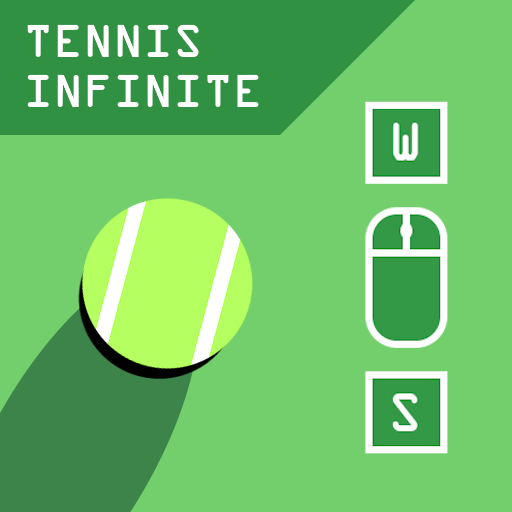
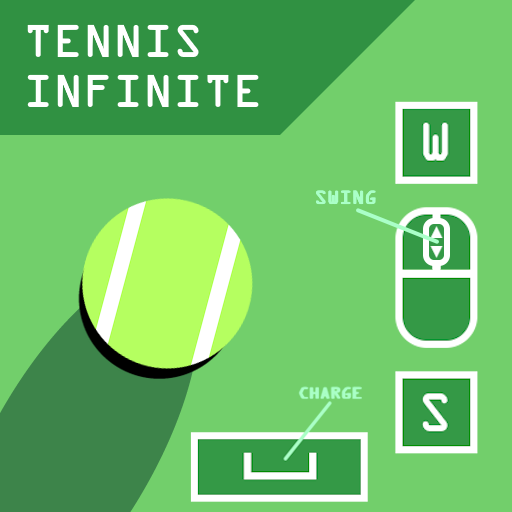
Dev 9 charge, cover, and juice

Changed region(s): [[0.5938, 0.1875, 0.9375, 0.6875], [0.375, 0.7188, 0.9375, 1.0]]

diff --git a/resources/Dev9/src/handler.js b/resources/Dev9/src/handler.js
@@ -13,17 +13,87 @@ TENNIS_GAME.playerPosition = null;   // [x, y] pos
 TENNIS_GAME.playerMoveFlags = null;
 TENNIS_GAME.playerVelocity = 0;
 TENNIS_GAME.racketAngle = 0;     // angle in radians
+TENNIS_GAME.racketColor = null;
 TENNIS_GAME.racketVelocity = 0;
 TENNIS_GAME.racketCells = null;
+TENNIS_GAME.racketChargeAlpha = 0;
+TENNIS_GAME.racketChargeTimer = null;
+TENNIS_GAME.racketChargeTimeActive = 0;
+TENNIS_GAME.racketChargeAlphaActive = 0;
 
 TENNIS_GAME.balls = [];
 TENNIS_GAME.ballSpawnTimer = 0;
+
+TENNIS_GAME.swingInputCooldown = 0;
+
+TENNIS_GAME.statusFlashColor = null;
+TENNIS_GAME.statusFlashTime = 0;
+
 // TENNIS_GAME.pointDisplays = [];
+
+// Toggles racket charge
+TENNIS_GAME.HANDLER.toggleRacketCharge = function(isCharging) {
+    if (isCharging && TENNIS_GAME.racketChargeTimer == null) {
+        const chargeTimer = TENNIS_GAME.CONSTANTS.RACKET_CHARGE_TIME;
+        var chargeCount = 0;
+        // var playedChargeSound = false;
+        var flashTimer = 0;
+        TENNIS_GAME.racketChargeTimer = TENNIS_GAME.UTIL.onStep(() => {
+            if (TENNIS_GAME.racketChargeAlpha == 1) {
+                // if (!playedChargeSound) {
+                //     playedChargeSound = true;
+                //     PS.audioPlay("fx_squink");
+                // }
+                var flashAlpha = 0;
+                if (flashTimer <= TENNIS_GAME.CONSTANTS.RACKET_CHARGE_FLASH_IN_TIME) {
+                    flashAlpha = flashTimer / TENNIS_GAME.CONSTANTS.RACKET_CHARGE_FLASH_IN_TIME;
+                }
+                else if (flashTimer <= TENNIS_GAME.CONSTANTS.RACKET_CHARGE_FLASH_IN_TIME +
+                    TENNIS_GAME.CONSTANTS.RACKET_CHARGE_FLASH_OUT_TIME
+                ) {
+                    flashAlpha = 1 - (
+                        (flashTimer - TENNIS_GAME.CONSTANTS.RACKET_CHARGE_FLASH_IN_TIME) /
+                        TENNIS_GAME.CONSTANTS.RACKET_CHARGE_FLASH_OUT_TIME
+                    );
+                }
+                else {
+                    return;
+                }
+                flashTimer++;
+                TENNIS_GAME.racketColor = TENNIS_GAME.UTIL.lerpColor(
+                    TENNIS_GAME.CONSTANTS.RACKET_CHARGE_COLOR, TENNIS_GAME.CONSTANTS.RACKET_CHARGE_FLASH_COLOR,
+                    flashAlpha
+                );
+                return;
+            }
+            chargeCount++;
+            TENNIS_GAME.racketChargeAlpha = chargeCount / chargeTimer;
+            TENNIS_GAME.racketColor = TENNIS_GAME.UTIL.lerpColor(
+                TENNIS_GAME.CONSTANTS.RACKET_COLOR, TENNIS_GAME.CONSTANTS.RACKET_CHARGE_COLOR,
+                TENNIS_GAME.racketChargeAlpha
+            )
+        });
+    }
+    else if (!isCharging) {
+        if (TENNIS_GAME.racketChargeTimer != null) {
+            PS.timerStop(TENNIS_GAME.racketChargeTimer);
+            TENNIS_GAME.racketChargeTimer = null;
+        }
+        TENNIS_GAME.racketColor = TENNIS_GAME.CONSTANTS.RACKET_COLOR;
+        if (TENNIS_GAME.racketChargeAlpha > TENNIS_GAME.racketChargeAlphaActive) {
+            TENNIS_GAME.racketChargeAlphaActive = TENNIS_GAME.racketChargeAlpha;
+        }
+        TENNIS_GAME.racketChargeAlpha = 0;
+        TENNIS_GAME.racketChargeTimeActive = TENNIS_GAME.CONSTANTS.RACKET_CHARGE_ACTIVE_TIME;
+    }
+}
 
 
 // Pulls the racket in the direction (> 0 pulls down, < 0 pulls up) 
 TENNIS_GAME.HANDLER.pullRacket = function(direction) {
-    TENNIS_GAME.racketVelocity += direction * TENNIS_GAME.CONSTANTS.RACKET_VELOCITY;
+    if (TENNIS_GAME.swingInputCooldown == 0) {
+        TENNIS_GAME.racketVelocity += direction * TENNIS_GAME.CONSTANTS.RACKET_VELOCITY;
+    }
 }
 
 // Sets a flag for whether movement in the specified direction should be on
@@ -54,7 +124,9 @@ TENNIS_GAME.HANDLER.calculateBallPoints = function(ball, edgePivot) {
         TENNIS_GAME.CONSTANTS.POINTS_OUT_X_MAX,
         1 - (edgeX / TENNIS_GAME.CONSTANTS.GRID_WIDTH)
     );
-    const points = TENNIS_GAME.UTIL.floorToMultiple(speedPoints + outXPoints, TENNIS_GAME.CONSTANTS.POINTS_MULTIPLE);
+    const points = TENNIS_GAME.UTIL.floorToMultiple(
+        (speedPoints + outXPoints) * (ball.multiplier ?? 1), TENNIS_GAME.CONSTANTS.POINTS_MULTIPLE
+    );
     return [points, 0];
 }
 
@@ -64,12 +136,22 @@ TENNIS_GAME.HANDLER.handleBallHit = function(ball) {
     if (ball.hitTimer == null) {
         ball.hitStartColor =
             isSlow ? TENNIS_GAME.CONSTANTS.BALL_SLOW_START_COLOR : ball.color;
+        const charging = TENNIS_GAME.racketChargeTimeActive > 0;
+        var hitColor = TENNIS_GAME.CONSTANTS.BALL_FAST_HIT_COLOR;
+        if (charging) {
+            // Change color if charging
+            hitColor = TENNIS_GAME.UTIL.lerpColor(
+                hitColor, TENNIS_GAME.CONSTANTS.BALL_FAST_HIT_CHARGE_COLOR,
+                TENNIS_GAME.racketChargeAlphaActive
+            )
+        }
         ball.hitEndColor =
             isSlow ? TENNIS_GAME.CONSTANTS.BALL_SLOW_END_COLOR : TENNIS_GAME.UTIL.lerpColor(
-                ball.color, TENNIS_GAME.CONSTANTS.BALL_FAST_HIT_LERP_COLOR,
-                TENNIS_GAME.CONSTANTS.BALL_FAST_HIT_LERP_ALPHA
+                ball.color, hitColor, TENNIS_GAME.CONSTANTS.BALL_FAST_HIT_LERP_ALPHA
             );
         ball.hitTimer = 0;
+        ball.multiplier =
+            charging ? (1 + (TENNIS_GAME.racketChargeAlphaActive * TENNIS_GAME.CONSTANTS.BALL_CHARGE_ALPHA_MULTIPLIER)) : 1;
     }
     const alpha = ball.hitTimer / TENNIS_GAME.CONSTANTS.BALL_FADE_STEPS;
     if (alpha <= 1) {
@@ -97,10 +179,11 @@ TENNIS_GAME.HANDLER.handleBallOutOfBounds = function(ball, edgePivot) {
         // Give points
         const [points, pointAlpha] = TENNIS_GAME.HANDLER.calculateBallPoints(ball, edgePivot);
         TENNIS_GAME.points += points
-        // TENNIS_GAME.pointDisplays.push({
-        //     points: points,
-        //     pointAlpha: pointAlpha,
-        // });
+        TENNIS_GAME.statusFlashTime = 0;
+        TENNIS_GAME.statusFlashColor =
+            ball.multiplier == (1 + TENNIS_GAME.CONSTANTS.BALL_CHARGE_ALPHA_MULTIPLIER) ?
+            TENNIS_GAME.CONSTANTS.LEVEL_STATUS_POINT_FLASH_GOLD_COLOR :
+            TENNIS_GAME.CONSTANTS.LEVEL_STATUS_POINT_FLASH_COLOR;
 
         // End tutorial if active
         if (TENNIS_GAME.tutorial) {
@@ -178,15 +261,18 @@ TENNIS_GAME.HANDLER.getCurrentDifficulty = function() {
         speed = 0.75;
     }
     else if (TENNIS_GAME.points > 75000) {
-        speed = 0.6;
+        speed = 0.7;
     }
     else if (TENNIS_GAME.points > 50000) {
-        speed = 0.5;
+        speed = 0.6;
     }
     else if (TENNIS_GAME.points > 25000) {
-        speed = 0.4;
+        speed = 0.5;
     }
     else if (TENNIS_GAME.points > 10000) {
+        speed = 0.4;
+    }
+    else if (TENNIS_GAME.points > 2000) {
         speed = 0.3;
     }
     else {
@@ -310,9 +396,14 @@ TENNIS_GAME.HANDLER.handleRacketBallHits = function(racketSpeed, angleStart, ang
                 const direction = TENNIS_GAME.UTIL.normalizePivot(
                     TENNIS_GAME.UTIL.rotatePivot(offset, offsetAngle)
                 );
-                ball.speed += racketSpeed * TENNIS_GAME.CONSTANTS.BALL_FAST_DEFLECT_SPEED_FACTOR;
+                ball.speed += racketSpeed * TENNIS_GAME.CONSTANTS.BALL_FAST_DEFLECT_SPEED_FACTOR * (ball.multiplier ?? 1);
                 ball.direction = direction;
-                PS.audioPlay("fx_blast2");
+                if (TENNIS_GAME.racketChargeAlphaActive == 1) {
+                    PS.audioPlay("fx_bang", {volume: 1 + TENNIS_GAME.racketChargeAlphaActive});
+                }
+                else {
+                    PS.audioPlay("fx_blast2");
+                }
             }
             else {
                 // Stop ball if slow
@@ -325,6 +416,16 @@ TENNIS_GAME.HANDLER.handleRacketBallHits = function(racketSpeed, angleStart, ang
 
 // Updates racket position based on current velocity + angle
 TENNIS_GAME.HANDLER.updateRacketPosition = function() {
+    if (TENNIS_GAME.swingInputCooldown > 0) {
+        TENNIS_GAME.swingInputCooldown--;
+    }
+    if (TENNIS_GAME.racketChargeTimeActive > 0) {
+        TENNIS_GAME.racketChargeTimeActive--;
+    }
+    else {
+        TENNIS_GAME.racketChargeAlphaActive = 0;
+    }
+
     // Apply racket velocity to angle
     TENNIS_GAME.racketVelocity = TENNIS_GAME.UTIL.toward(
         TENNIS_GAME.racketVelocity, 0, TENNIS_GAME.CONSTANTS.RACKET_DECELERATION
@@ -341,6 +442,7 @@ TENNIS_GAME.HANDLER.updateRacketPosition = function() {
     );
     if (clampedAngle != newAngle) {
         TENNIS_GAME.racketVelocity = 0;
+        TENNIS_GAME.swingInputCooldown = TENNIS_GAME.CONSTANTS.SWING_TIME_COOLDOWN;
     }
 
     // Update active angle
@@ -370,7 +472,7 @@ TENNIS_GAME.HANDLER.drawBalls = function() {
 TENNIS_GAME.HANDLER.drawPlayer = function() {
     TENNIS_GAME.UTIL.drawSprite(TENNIS_GAME.playerPosition, TENNIS_GAME.CONSTANTS.PLAYER_SPRITE);
     TENNIS_GAME.racketCells.forEach(cell => {
-        TENNIS_GAME.UTIL.fillPivot(cell, TENNIS_GAME.CONSTANTS.RACKET_COLOR);
+        TENNIS_GAME.UTIL.fillPivot(cell, TENNIS_GAME.racketColor);
     })
 }
 
@@ -404,7 +506,31 @@ TENNIS_GAME.HANDLER.drawUI = function() {
         else {
             // Display points
             PS.statusText(`Points: ${TENNIS_GAME.points}`);
-            PS.statusColor(TENNIS_GAME.CONSTANTS.LEVEL_STATUS_COLOR);
+            var statusColor = TENNIS_GAME.CONSTANTS.LEVEL_STATUS_COLOR;
+            if (TENNIS_GAME.statusFlashColor != null) {
+                var flashAlpha = 0;
+                if (TENNIS_GAME.statusFlashTime <= TENNIS_GAME.CONSTANTS.LEVEL_STATUS_FLASH_IN_TIME) {
+                    flashAlpha = TENNIS_GAME.statusFlashTime / TENNIS_GAME.CONSTANTS.LEVEL_STATUS_FLASH_IN_TIME;
+                }
+                else if (TENNIS_GAME.statusFlashTime <= TENNIS_GAME.CONSTANTS.LEVEL_STATUS_FLASH_IN_TIME +
+                    TENNIS_GAME.CONSTANTS.LEVEL_STATUS_FLASH_OUT_TIME
+                ) {
+                    flashAlpha = 1 - (
+                        (TENNIS_GAME.statusFlashTime - TENNIS_GAME.CONSTANTS.LEVEL_STATUS_FLASH_IN_TIME) /
+                        TENNIS_GAME.CONSTANTS.LEVEL_STATUS_FLASH_OUT_TIME
+                    );
+                }
+                else {
+                    TENNIS_GAME.statusFlashColor = null;
+                }
+                TENNIS_GAME.statusFlashTime++;
+                if (flashAlpha > 0) {
+                    statusColor = TENNIS_GAME.UTIL.lerpColor(
+                        statusColor, TENNIS_GAME.statusFlashColor, flashAlpha
+                    );
+                }
+            }
+            PS.statusColor(statusColor);
         }
     }
 
@@ -452,6 +578,8 @@ TENNIS_GAME.HANDLER.update = function() {
 TENNIS_GAME.HANDLER.start = function() {
     
     // Load and lock audio
+	PS.audioLoad("fx_bang", {lock: true});
+	// PS.audioLoad("fx_squink", {lock: true});
 	PS.audioLoad("fx_blast2", {lock: true});
 	PS.audioLoad("fx_bucket", {lock: true});
 	PS.audioLoad("fx_scratch", {lock: true});
@@ -469,6 +597,7 @@ TENNIS_GAME.HANDLER.start = function() {
     TENNIS_GAME.points = 0;
     TENNIS_GAME.tutorial = true;
     TENNIS_GAME.racketAngle = TENNIS_GAME.CONSTANTS.RACKET_ANGLE_INIT;
+    TENNIS_GAME.racketColor = TENNIS_GAME.CONSTANTS.RACKET_COLOR;
     TENNIS_GAME.playerMoveFlags = new Set();
     TENNIS_GAME.playerPosition = [TENNIS_GAME.CONSTANTS.PLAYER_SPAWN_X, TENNIS_GAME.CONSTANTS.PLAYER_SPAWN_Y];
     

diff --git a/resources/Dev9/src/constants.js b/resources/Dev9/src/constants.js
@@ -41,6 +41,12 @@ TENNIS_GAME.CONSTANTS.RACKET_ANGLE_MAX = Math.PI;// + (Math.PI * 0.125);
 TENNIS_GAME.CONSTANTS.RACKET_ANGLE_SAVE_STEPS = 50;
 TENNIS_GAME.CONSTANTS.RACKET_DECELERATION = 0.2;
 TENNIS_GAME.CONSTANTS.RACKET_MIN_HIT_SPEED = 0.4;
+TENNIS_GAME.CONSTANTS.RACKET_CHARGE_TIME = 60;
+TENNIS_GAME.CONSTANTS.RACKET_CHARGE_COLOR = 0x918e30;
+TENNIS_GAME.CONSTANTS.RACKET_CHARGE_FLASH_COLOR = 0xc4c151;
+TENNIS_GAME.CONSTANTS.RACKET_CHARGE_FLASH_IN_TIME = 15;
+TENNIS_GAME.CONSTANTS.RACKET_CHARGE_FLASH_OUT_TIME = 10;
+TENNIS_GAME.CONSTANTS.RACKET_CHARGE_ACTIVE_TIME = 10;
 
 // Player mark constants
 TENNIS_GAME.CONSTANTS.MARK_COLOR = 0x355287;
@@ -57,8 +63,10 @@ TENNIS_GAME.CONSTANTS.BALL_FAST_DEFLECT_SPEED_FACTOR = 1;
 TENNIS_GAME.CONSTANTS.BALL_FADE_STEPS = 10;
 TENNIS_GAME.CONSTANTS.BALL_SLOW_START_COLOR = 0xff0000;
 TENNIS_GAME.CONSTANTS.BALL_SLOW_END_COLOR = 0xa80707;
-TENNIS_GAME.CONSTANTS.BALL_FAST_HIT_LERP_COLOR = 0xff0000;
+TENNIS_GAME.CONSTANTS.BALL_FAST_HIT_COLOR = 0x00ffff;
 TENNIS_GAME.CONSTANTS.BALL_FAST_HIT_LERP_ALPHA = 1;
+TENNIS_GAME.CONSTANTS.BALL_FAST_HIT_CHARGE_COLOR = 0xffff00;
+TENNIS_GAME.CONSTANTS.BALL_CHARGE_ALPHA_MULTIPLIER = 2;
 TENNIS_GAME.CONSTANTS.BALL_SPAWN_MIN_Y = 4;
 TENNIS_GAME.CONSTANTS.BALL_SPAWN_MAX_Y = TENNIS_GAME.CONSTANTS.GRID_HEIGHT - 5;
 TENNIS_GAME.CONSTANTS.BALL_TYPE_REGULAR = {
@@ -112,8 +120,12 @@ TENNIS_GAME.CONSTANTS.LEVEL_BACKGROUND = [
     TENNIS_GAME.CONSTANTS.COURT_COLOR,
 ]
 TENNIS_GAME.CONSTANTS.LEVEL_STATUS_COLOR = 0xffffff;
+TENNIS_GAME.CONSTANTS.LEVEL_STATUS_POINT_FLASH_COLOR = 0x00ff00;
+TENNIS_GAME.CONSTANTS.LEVEL_STATUS_POINT_FLASH_GOLD_COLOR = 0xffff00;
+TENNIS_GAME.CONSTANTS.LEVEL_STATUS_FLASH_IN_TIME = 3;
+TENNIS_GAME.CONSTANTS.LEVEL_STATUS_FLASH_OUT_TIME = 20;
 TENNIS_GAME.CONSTANTS.LEVEL_GAME_OVER_COLOR = 0xffffff;
-TENNIS_GAME.CONSTANTS.LEVEL_TUTORIAL_STATUS = "READY?";
+TENNIS_GAME.CONSTANTS.LEVEL_TUTORIAL_STATUS = "READY? SWING!";
 TENNIS_GAME.CONSTANTS.LEVEL_TUTORIAL_STATUS_COLOR = 0xffff00;
 TENNIS_GAME.CONSTANTS.LEVEL_TUTORIAL_READY = "START!";
 TENNIS_GAME.CONSTANTS.LEVEL_TUTORIAL_READY_COLOR = 0x00ff00;
@@ -121,7 +133,7 @@ TENNIS_GAME.CONSTANTS.LEVEL_TUTORIAL_READY_TIMER = 60;
 TENNIS_GAME.CONSTANTS.LEVEL_GROUND_Y = TENNIS_GAME.CONSTANTS.GRID_WIDTH - TENNIS_GAME.CONSTANTS.FROG_HEIGHT - 1;
 
 // Input constants
-TENNIS_GAME.CONSTANTS.MIN_TIME_GAP = 10
+TENNIS_GAME.CONSTANTS.SWING_TIME_COOLDOWN = 1
 TENNIS_GAME.CONSTANTS.MOVE_UP_KEYS = [
     "W".codePointAt(0),
     "w".codePointAt(0),
@@ -131,4 +143,7 @@ TENNIS_GAME.CONSTANTS.MOVE_DOWN_KEYS = [
     "S".codePointAt(0),
     "s".codePointAt(0),
     PS.KEY_ARROW_DOWN,
+]
+TENNIS_GAME.CONSTANTS.CHARGE_KEYS = [
+    " ".codePointAt(0),
 ]

diff --git a/resources/Dev9/src/game.js b/resources/Dev9/src/game.js
@@ -9,7 +9,6 @@
 
 const TENNIS_GAME = {};
 
-
 PS.init = function(system, options) {
     // Set grid basics
     PS.statusText("");
@@ -29,6 +28,9 @@ PS.keyDown = function(key, shift, ctrl, options) {
     if (TENNIS_GAME.CONSTANTS.MOVE_DOWN_KEYS.some(k => k == key)) {
         TENNIS_GAME.HANDLER.flagPlayerMove(1, true);
     }
+    if (TENNIS_GAME.CONSTANTS.CHARGE_KEYS.some(k => k == key)) {
+        TENNIS_GAME.HANDLER.toggleRacketCharge(true);
+    }
 };
 
 
@@ -38,6 +40,9 @@ PS.keyUp = function(key, shift, ctrl, options) {
     }
     if (TENNIS_GAME.CONSTANTS.MOVE_DOWN_KEYS.some(k => k == key)) {
         TENNIS_GAME.HANDLER.flagPlayerMove(1, false);
+    }
+    if (TENNIS_GAME.CONSTANTS.CHARGE_KEYS.some(k => k == key)) {
+        TENNIS_GAME.HANDLER.toggleRacketCharge(false);
     }
 };
 
